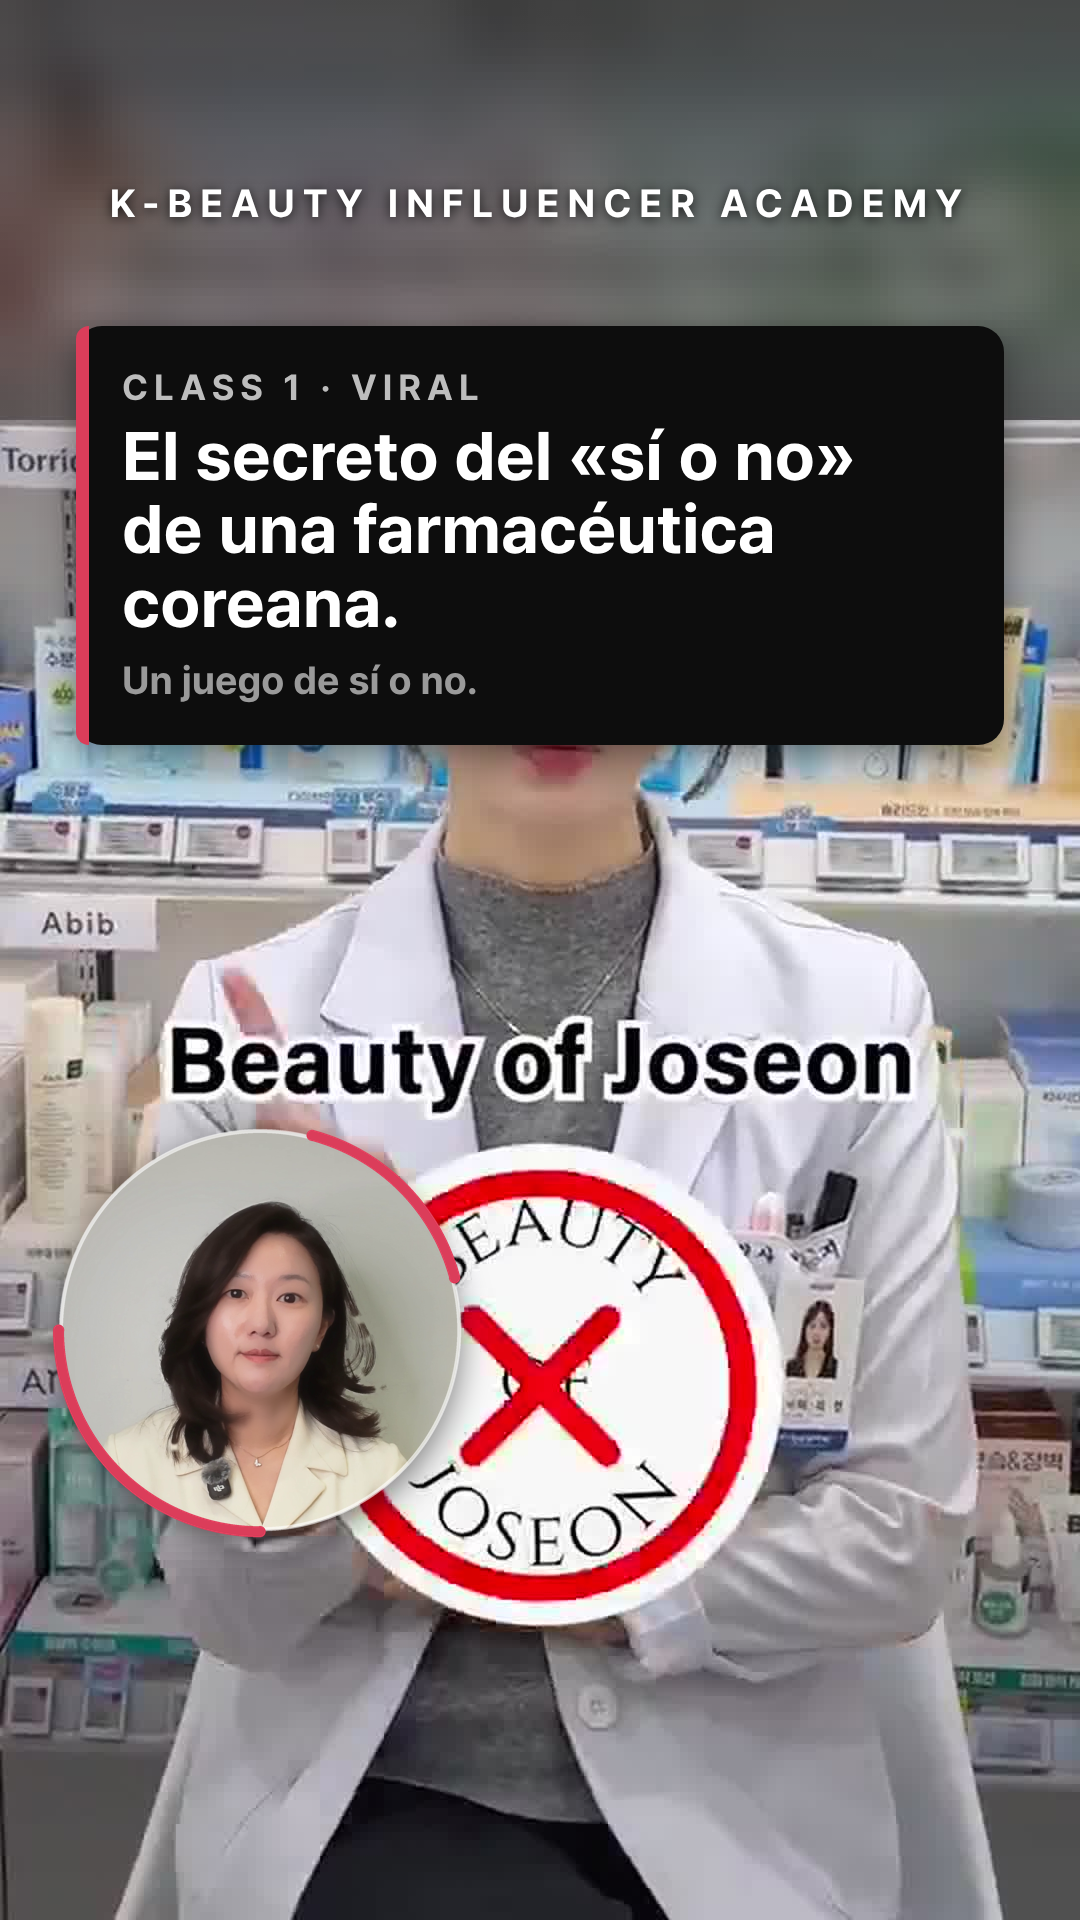
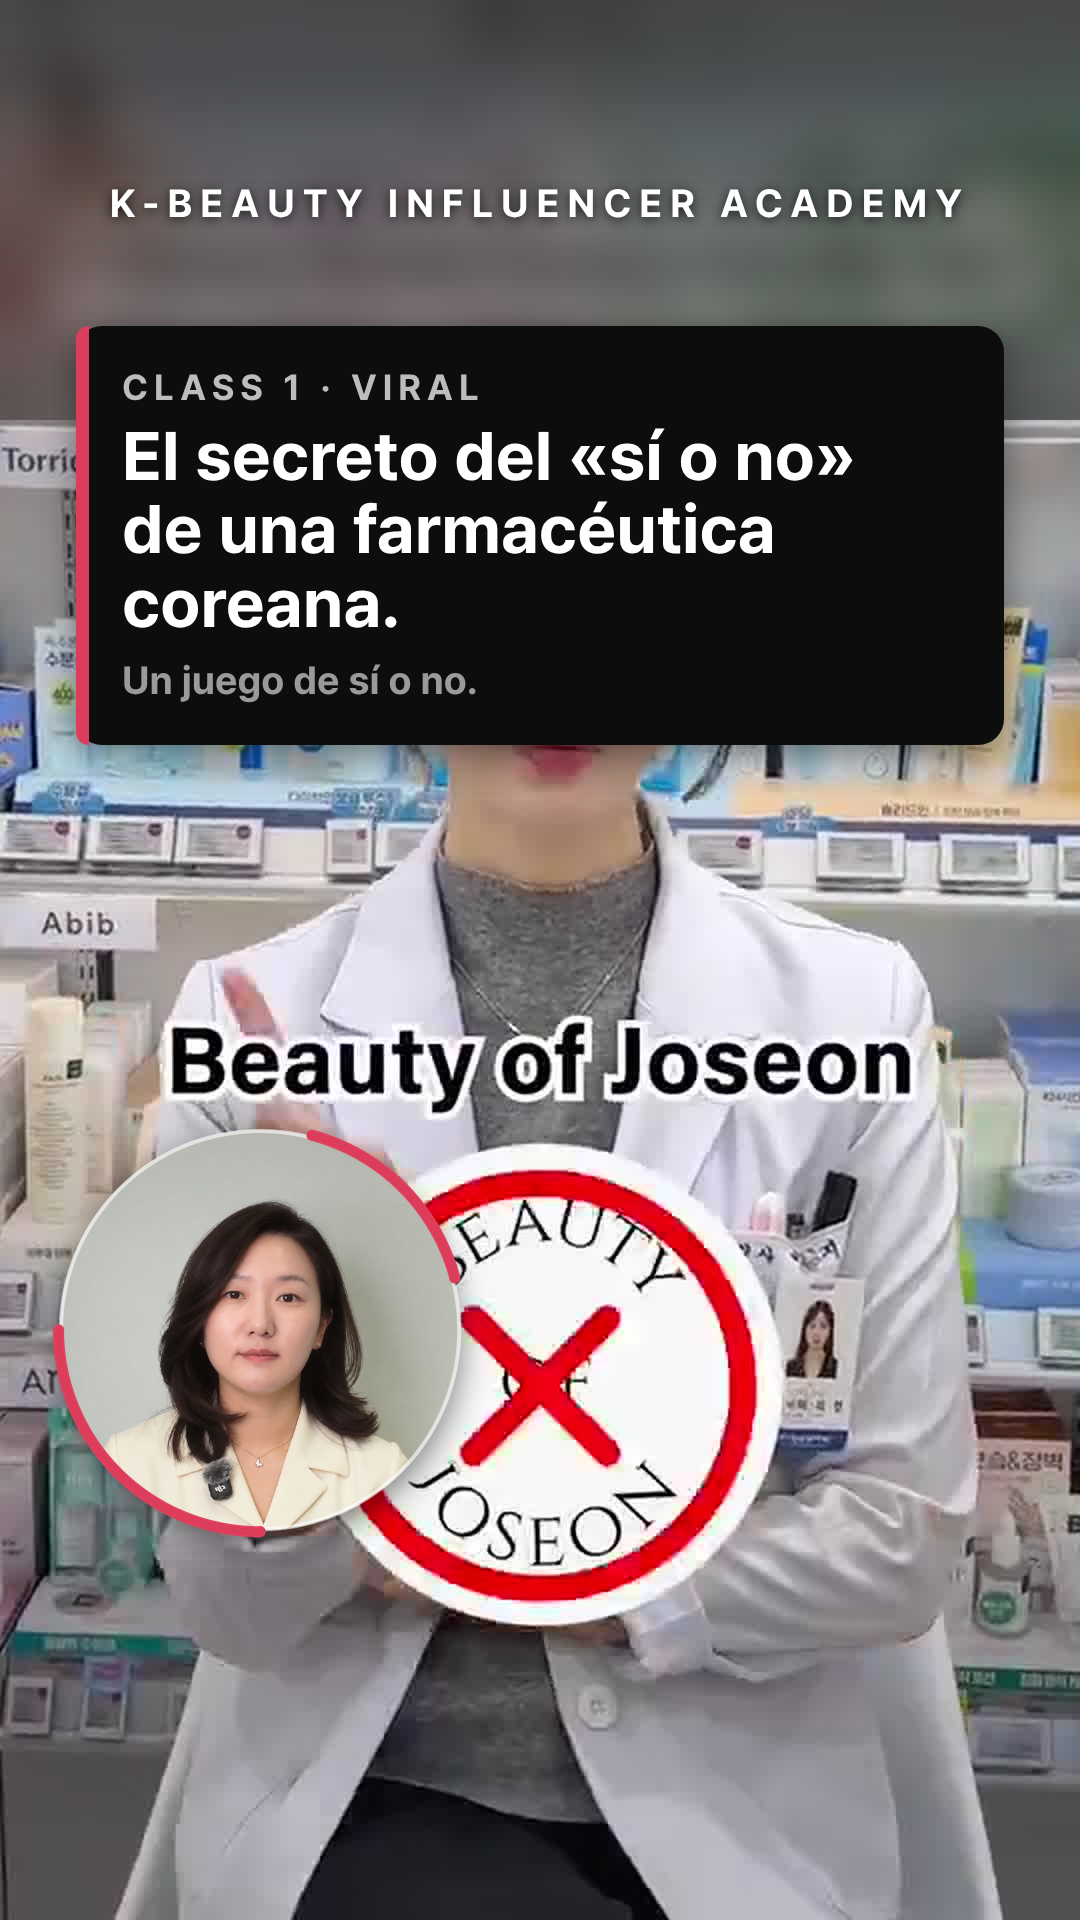
006-009 썸네일: 사용자 보정 대표 사진 적용
Claude-Session: https://claude.ai/code/session_01NBw83u7YiR7WixSKKJmAKg

Changed region(s): [[0.1528, 0.625, 0.3667, 0.7812]]

diff --git a/plan/pipeline/tools/ep_final.py b/plan/pipeline/tools/ep_final.py
@@ -4,7 +4,6 @@ import sys, os, json, subprocess, shutil
 S = '/tmp/claude-0/-home-user-threads-dna-studio/c2baa838-8d39-5050-9a2e-a92a98b07ab3/scratchpad'
 REPO = '/home/user/threads-dna-studio'
 MODE_KO = os.environ.get('KO') == '1'
-HAIR_TIDY = {'006', '007', '008', '009'}   # 썸네일 잔머리 정돈 대상 (오른쪽 머리 붕뜸 심한 편, 2026-11-01)
 no = sys.argv[1]; D = f'{S}/ep/{no}'
 p = json.load(open(f'{D}/plan_base.json')); ov = json.load(open(f'{D}/override.json'))
 sys.path.insert(0, S + '/tools'); from ep import data
@@ -22,7 +21,7 @@ if ov.get('thumb_blur_top') or auto_blur:   # 원본에 박힌 상단 글자가 
     hb = int(ov.get('thumb_blur_top', 420)); run(['ffmpeg', '-v', 'error', '-y', '-i', f'{D}/thumb_bg.jpg', '-filter_complex', f'[0]split[a][b];[b]crop=1080:{hb}:0:0,boxblur=24:3,eq=brightness=-0.15[t];[a][t]overlay=0:0', f'{D}/thumb_bg.jpg'])
 bv = f'{D}/beauty.mp4'; from facecrop import face_crop; fc, fx, fy = face_crop(D)   # 영상 원과 같은 크롭 (얼굴 가운데) + 좌우반전
 run(['python3', f'{S}/tools/face_pick.py', bv, f'{fc},{fx},{fy}', f'{D}/face_pick', '1']); run(['python3', f'{S}/tools/thumb_retouch.py', f'{D}/face_pick/cand_1.png', f'{D}/ceo_face.png'])
-if no in HAIR_TIDY: run(['python3', f'{S}/tools/hair_tidy.py', f'{D}/ceo_face.png', f'{D}/ceo_face.png'])   # 잔머리·붕뜬 머리 심한 편만 정돈 (썸네일만)   # v7: 표정 좋은 프레임 자동 선택 → 자연스럽게 갸름하게(턱선 8%)·눈 12% (썸네일만)
+if os.path.exists(f'{D}/ceo_face_manual.png'): shutil.copy(f'{D}/ceo_face_manual.png', f'{D}/ceo_face.png')   # 사용자가 따로 보정해 준 대표 사진이 있으면 그대로 사용 (추가 보정 없음)   # v7: 표정 좋은 프레임 자동 선택 → 자연스럽게 갸름하게(턱선 8%)·눈 12% (썸네일만)
 ep_i = int(no)
 px, py = '60', '1130'   # 원형 위치는 모든 편 동일 (왼쪽 아래, 영상과 같은 쪽) — 프로필 그리드(3:4) 안 · 오른쪽 버튼 데드존 피함
 run(['python3', f'{REPO}/plan/reel001/template/make_thumb.py', '--bg', f'{D}/thumb_bg.jpg', '--cat', 'C1', '--label', 'CLASS 1 · VIRAL', '--ep', str(ep_i),

diff --git a/plan/EDIT_RULES.md b/plan/EDIT_RULES.md
@@ -120,4 +120,4 @@
 - 썸네일 대표 얼굴: 영상 1초 지점 고정 → **표정 좋은 프레임 자동 선택** (`tools/face_pick.py`: 눈 뜸·은은한 미소·입 다묾·선명도 점수, 상위 후보 중 Claude가 확인해 고름).
 - 썸네일 얼굴 보정 (확정 2026-11-01, 썸네일만): 자연스럽게 갸름하게 턱선 약 8%(광대 아래→턱으로 갈수록 서서히 좁힘, 윤곽 모양 유지·머리카락/배경 그대로) + 눈 약 10%(은근하게, 어색하지 않게) + 목주름 흐리게(턱 아래 목만, 목걸이·머리카락 제외) — `tools/thumb_retouch.py`. 사진 고르기: 손이 얼굴 옆·앞에 있거나 고개 기울어진 컷 제외 (`face_pick.py`). 점별로 당기는 방식은 찌그러져 보여서 폐기.
 - **KO 버전은 v7부터 만들지 않음** (ES만 빌드, `build_all.sh`).
-- 썸네일 잔머리·붕뜬 머리 정돈: 심한 편만(006·007·008·009) `tools/hair_tidy.py` — 머리 윤곽 밖으로 가늘게 삐져나온 머리카락만 지움. 머리 덩어리·뜬 부분·컬·윤곽은 손대지 않음 (크게 지우는 방식은 이상해 보여서 폐기). 영상은 손대지 않음(일이 커짐, 2026-11-01).
+- 썸네일 대표 사진 수동 교체: 006·007·008·009는 사용자가 따로 보정한 사진(`episodes/NNN/ceo_face_manual.png`)을 그대로 사용 (추가 보정 없음, 좌우·정사각 유지). 자동 잔머리 지우기는 폐기.
